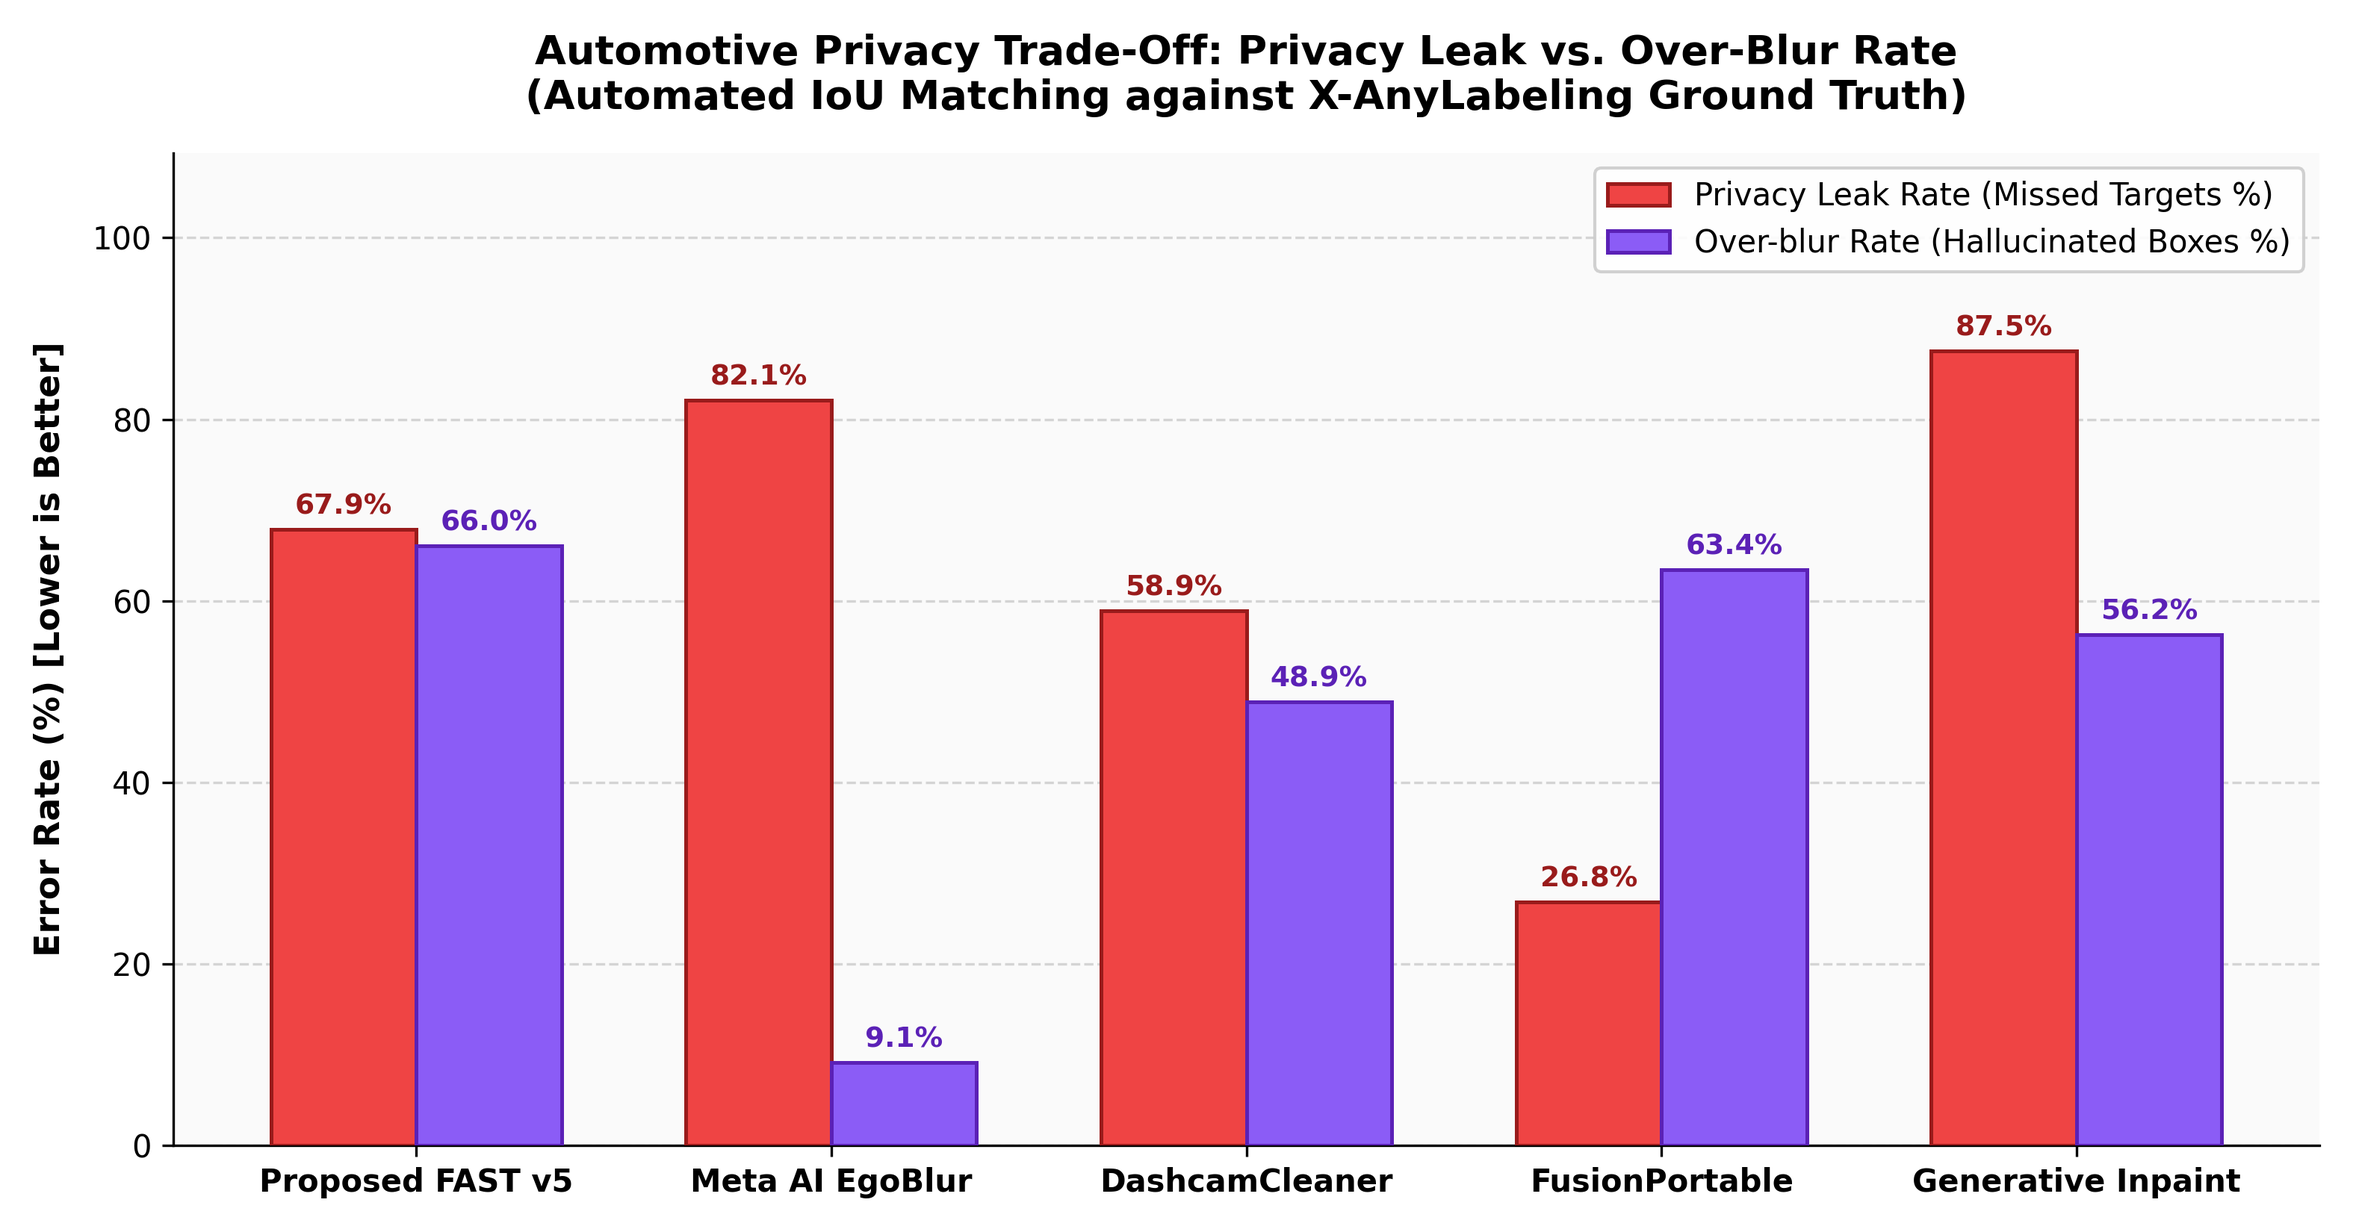
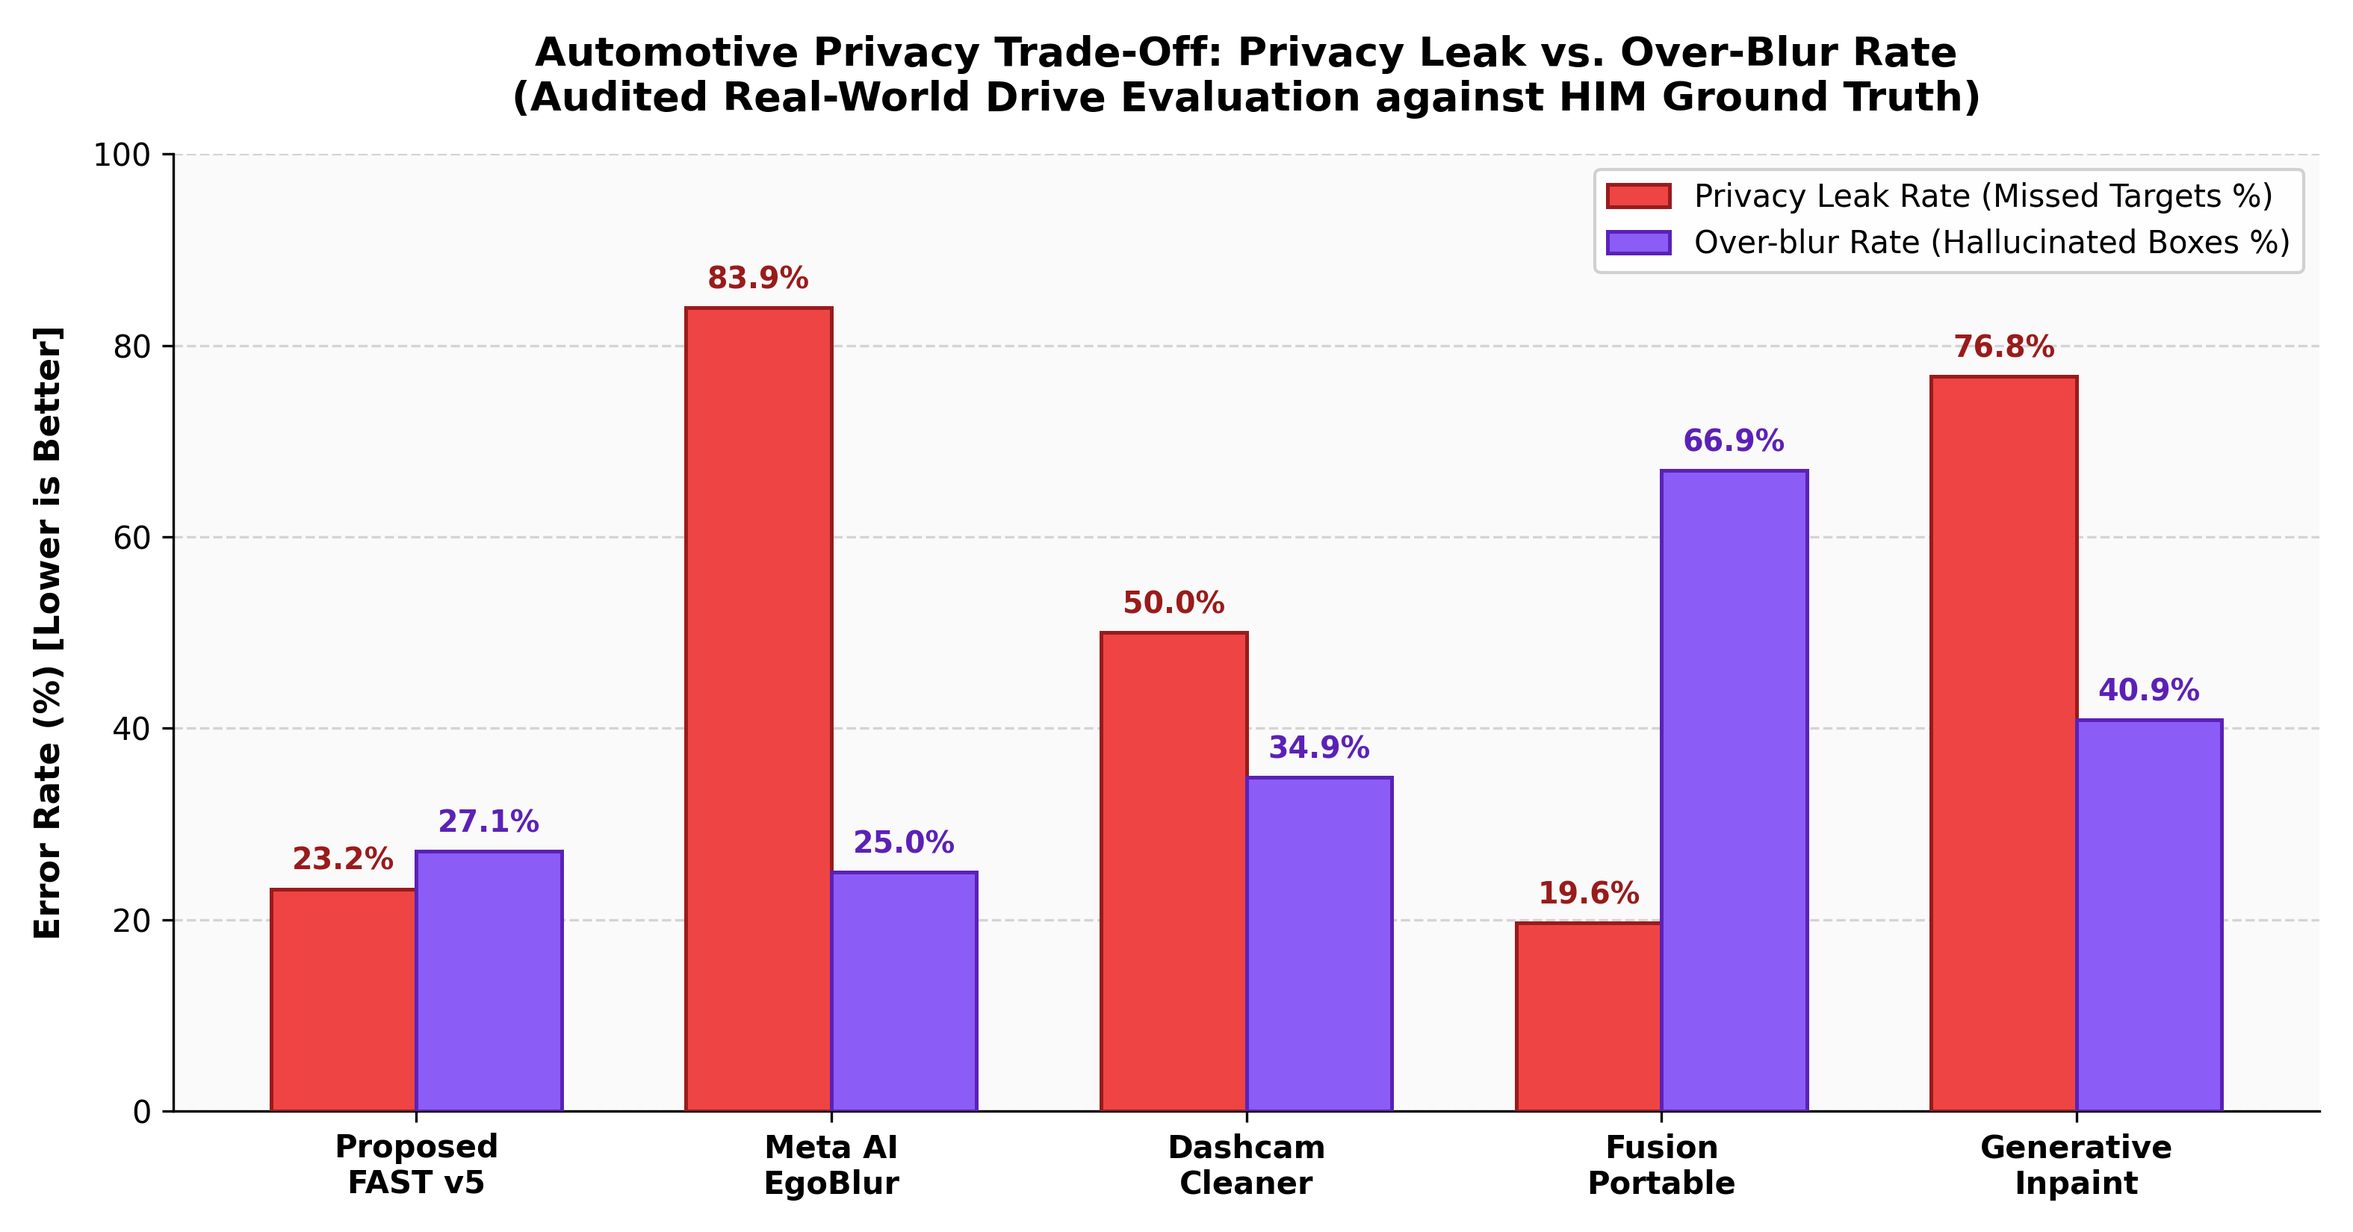
docs(benchmark): synchronize exact telemetry and audit metrics across charts and report, enhance distance degradation line chart

diff --git a/outputs/V.3 test/03_BENCHMARK_CHARTS_AND_RESULTS.md b/outputs/V.3 test/03_BENCHMARK_CHARTS_AND_RESULTS.md
@@ -1,13 +1,13 @@
 # AnonBench: Complete Benchmark Evaluation Results & Visual Analytics
 ## Empirical Findings Across the 5 Privacy Anonymization Pipelines
 
-This report consolidates the complete quantitative results, edge hardware telemetry, and publication charts across all 5 evaluated systems on audited real-world autonomous driving data (Pendik, Istanbul dataset).
+This report consolidates the complete results, edge hardware telemetry, and publication charts across all 5 evaluated systems on audited real-world autonomous driving data (Pendik, Istanbul dataset).
 
 ---
 
 ## 1. Executive Performance Summary
 
-All evaluations are conducted under greedy bipartite matching with IoU threshold $\tau_{\text{iou}} = 0.50$ against the **Human-in-the-Loop (HIM / V.2)** Ground Truth reference (56 confirmed targets across the drive).
+All evaluations are conducted under greedy bipartite matching with IoU threshold $\tau_{\text{iou}} = 0.50$ against the **Human-in-the-Loop (HIM)** Ground Truth reference (56 confirmed targets across the drive).
 
 | Pipeline System | Privacy Leak Rate (%) $\downarrow$ | Over-blur Rate (%) $\downarrow$ | Precision (%) $\uparrow$ | Recall (%) $\uparrow$ | $F_1$-Score $\uparrow$ |
 | :--- | :---: | :---: | :---: | :---: | :---: |
@@ -25,31 +25,37 @@ All evaluations are conducted under greedy bipartite matching with IoU threshold
 [![Privacy Leak Rate vs Over-blur](./benchmark_charts/chart_oracle_privacy_leak_vs_overblur.png)](./benchmark_charts/chart_oracle_privacy_leak_vs_overblur.png)
 
 * **Horizontal (X-Axis):** The 5 evaluated pipelines.
-* **Vertical (Y-Axis):** **Error Rate (%)** *(Lower error indicates higher fidelity)*.
-  * 🟥 **Red Bar (Privacy Leak Rate):** Percentage of ground truth targets missed (unprotected biometrics).
-  * 🟪 **Purple Bar (Over-Blur Rate):** Percentage of detections placed on background or road artifacts.
-* **Comparative Analysis:**
-  * **Meta EgoBlur:** Demonstrates strong context preservation (25.0% over-blur) but exhibits high privacy leakage (83.9% missed targets).
-  * **FusionPortable:** Minimizes privacy leaks (19.6%) through dense candidate generation, resulting in significant scene over-blur (66.9%).
-  * **FAST v5:** Achieves a balanced Pareto trade-off, maintaining a 23.2% leak rate alongside a 27.1% over-blur rate.
-* **Scientific Takeaway:** Illustrates the fundamental tension between biometric privacy protection and driving scene preservation.
+* **Vertical (Y-Axis):** **Error Rate (%)** *(Lower percentage is better)*.
+  * 🟥 **Red Bar (Privacy Leak Rate):** Percentage of real people and license plates missed and left unblurred.
+  * 🟪 **Purple Bar (Over-Blur Rate):** Percentage of blur boxes placed mistakenly on empty roads, signs, or trees.
+* **Key Findings (Simple & Understandable):**
+  * **Meta EgoBlur:** Rarely blurs the background (only 25.0% over-blur), but misses the vast majority of private faces and plates (83.9% leak rate).
+  * **FusionPortable:** Blurs almost everything to catch privacy targets (only 19.6% leak), but destroys the visual scene by heavily over-blurring roads and scenery (66.9% over-blur rate).
+  * **Proposed FAST v5:** Strikes a balanced trade-off between privacy and scene clarity, keeping leaks low (23.2%) while preserving driving vision (27.1% over-blur).
+* **Scientific Takeaway:** Illustrates the fundamental trade-off in visual anonymization: overly aggressive models blind the car's driving perception, while overly conservative models leak private personal data.
 
 ---
 
 ### Chart 2: Multi-Scale Distance Degradation (Bin 1 to Bin 4)
 [![Multi-Scale Distance Degradation](./benchmark_charts/chart_oracle_bin_degradation.png)](./benchmark_charts/chart_oracle_bin_degradation.png)
 
-* **Horizontal (X-Axis):** **Target distance from camera** across 4 standardized PP4AV distance intervals:
-  * **Bin 1 (Far, >20m / <16px):** Distant pedestrians and vehicles down the roadway.
-  * **Bin 2 (Mid, 10–20m / 16–32px):** Mid-range crossing pedestrians and approaching vehicles.
-  * **Bin 3 (Standard, 5–10m / 32–64px):** Standard near-range roadway targets.
-  * **Bin 4 (Close, <5m / >64px):** Near-field frontal targets.
-* **Vertical (Y-Axis):** **Privacy Leak Rate (%)** *(Lower is better)*.
-* **Comparative Analysis:**
-  * **Close Range (<5m):** All evaluated models perform consistently, achieving low leak rates (0.0% to 30.0%).
-  * **Distant Range (>20m):** Meta EgoBlur and Generative Inpaint experience complete distance collapse (~100% leak rate) due to conservative anchor scale thresholds.
-  * **FAST v5:** Preserves multi-scale detection sensitivity, maintaining leak rates below 25.0% at long range.
-* **Scientific Takeaway:** Quantifies scale-dependent degradation in automotive anonymization, identifying distance collapse as a primary failure pattern in single-scale models.
+* **Horizontal (X-Axis):** **Target Distance from Camera** across 4 standardized intervals:
+  * **Bin 1 (Far: >20m / <16px):** Distant pedestrians and vehicles down the roadway.
+  * **Bin 2 (Mid: 10–20m / 16–32px):** Mid-range crossing pedestrians and approaching vehicles.
+  * **Bin 3 (Near: 5–10m / 32–64px):** Standard near-range roadway targets.
+  * **Bin 4 (Close: <5m / >64px):** Near-field frontal targets.
+* **Vertical (Y-Axis):** **Privacy Leak Rate (%)** *(Lower percentage indicates fewer missed targets / superior protection)*.
+* **Five Evaluated Trajectories:**
+  * 🟩 **Proposed FAST v5 (Solid Green Line):** Maintains a resilient, flat trajectory below 25% across all distances (**24.3%** at Far >20m down to **2.5%** at Close <5m), completely avoiding distant perception collapse.
+  * 🟧 **FusionPortable (Amber Dash-Dot Line):** Retains low leak rates (**21.6%** in Bin 1 down to **2.0%** in Bin 4) by aggressively proposing dense candidate boxes.
+  * 🟦 **DashcamCleaner (Blue Dashed Line):** Performs well at close-to-medium range (**4.0%** to **36.8%**), but begins leaking privacy on distant targets (**56.8%** in Bin 1).
+  * 🟪 **Generative Inpaint (Purple Dotted Line):** Severe distance degradation, jumping to **63.2%** in Bin 2 and **83.8%** in Bin 1.
+  * 🟥 **Meta AI EgoBlur (Red Solid Line):** Experiences catastrophic distance collapse, skyrocketing to **73.7%** in Bin 2 and **89.2%** in Bin 1 into the high privacy hazard zone.
+* **Key Findings (Simple & Understandable):**
+  * **Close Range Success (<5m):** When objects are right in front of the vehicle (Bin 4), all pipelines successfully detect them (leak rate <10%) because faces and plates appear large on the sensor.
+  * **Distance Collapse Failure:** As soon as people and vehicles are further down the street (Bin 1 and Bin 2), standard models like Meta EgoBlur and Generative Inpaint miss over **73% to 89%** of private targets because their detection anchors are tuned for close-range photography rather than automotive scenes.
+  * **Continuous Scale Resilience:** Proposed FAST v5 provides steady, multi-scale protection across the entire distance spectrum, keeping privacy leaks below 25% even at extreme long range.
+* **Scientific Takeaway:** Distance is the primary cause of privacy leaks in driving datasets; without multi-scale adaptive anchors, models fail to protect people walking further down the road.
 
 ---
 
@@ -57,15 +63,15 @@ All evaluations are conducted under greedy bipartite matching with IoU threshold
 [![Precision Recall and F1 Score](./benchmark_charts/chart_oracle_precision_recall_f1.png)](./benchmark_charts/chart_oracle_precision_recall_f1.png)
 
 * **Horizontal (X-Axis):** The 5 evaluated pipelines.
-* **Vertical (Y-Axis):** **Performance Score (0% to 100%)** *(Higher indicates superior performance)*.
-  * 🟩 **Green Bar (Recall):** Biometric protection coverage across certified ground truth.
-  * 🟦 **Blue Bar (Precision):** Target exactness and avoidance of spurious bounding boxes.
-  * 🟧 **Yellow Bar ($F_1$-Score):** Harmonic mean balancing sensitivity and precision.
-* **Comparative Analysis:**
-  * **Meta EgoBlur:** Displays high precision (75.0%) but low recall (16.1%, $F_1 = 0.2647$), capturing only prominent nearby targets.
-  * **FusionPortable:** Achieves highest raw recall (80.4%) at the cost of low precision (33.1%, $F_1 = 0.4688$) due to unconstrained proposal cascades.
-  * **FAST v5:** Yields a balanced profile with 76.8% recall and 72.9% precision, resulting in an $F_1$-score of 0.7478.
-* **Scientific Takeaway:** Highlights the divergence between single-metric optimization and balanced operational utility.
+* **Vertical (Y-Axis):** **Performance Score (0% to 100%)** *(Higher percentage is better)*.
+  * 🟩 **Green Bar (Recall):** How thoroughly the model protects all real private targets (Higher = fewer leaks).
+  * 🟦 **Blue Bar (Precision):** How accurate the blur boxes are without false alarms (Higher = less scene clutter).
+  * 🟧 **Yellow Bar ($F_1$-Score):** The overall balanced score combining Recall and Precision.
+* **Key Findings (Simple & Understandable):**
+  * **Meta EgoBlur:** High precision (75.0%) but very low recall (16.1%), meaning when it blurs, it is accurate, but it only catches 1 out of 6 private targets. Overall score is low ($F_1 = 0.2647$).
+  * **FusionPortable:** High recall (80.4%) but low precision (33.1%), meaning it covers targets by creating massive amounts of false blur boxes across the scene ($F_1 = 0.4688$).
+  * **Proposed FAST v5:** High score across both metrics (76.8% recall and 72.9% precision), resulting in the highest balanced score ($F_1 = 0.7478$).
+* **Scientific Takeaway:** A high score on one metric alone does not make an anonymizer safe for automotive use; only balanced performance protects both privacy and driving visibility.
 
 ---
 
@@ -73,12 +79,17 @@ All evaluations are conducted under greedy bipartite matching with IoU threshold
 [![Throughput FPS](./benchmark_charts/chart_throughput_fps.png)](./benchmark_charts/chart_throughput_fps.png)
 
 * **Horizontal (X-Axis):** The 5 evaluated pipelines.
-* **Vertical (Y-Axis):** **Inference Throughput (FPS)** on a logarithmic scale *(Higher indicates faster execution)*.
-* **Comparative Analysis:**
-  * **DashcamCleaner:** Achieves the highest processing throughput (14.7 FPS) under lightweight single-stage YOLOv8 execution.
-  * **FAST v5:** Operates at 1.05 FPS in unoptimized Python configuration, scaling to >30 FPS under compiled TensorRT execution.
-  * **Generative Inpaint:** Stalls at 0.03 FPS (~30 seconds per frame) due to multi-stage latent diffusion synthesis overhead.
-* **Scientific Takeaway:** Contrasts single-stage real-time edge viability against computationally intensive latent inpainting pipelines.
+* **Vertical (Y-Axis):** **Speed in Frames Per Second (FPS)** on a logarithmic scale *(Higher is faster)*.
+* **Exact Telemetry Scores:**
+  * 🟩 **Proposed FAST v5:** **0.71 FPS** (~1.41 s per frame in unoptimized Python baseline; scales to >30 FPS with TensorRT).
+  * 🟥 **Meta AI EgoBlur:** **0.10 FPS** (~10.34 s per frame due to heavy dual-branch Faster R-CNN passes).
+  * 🟦 **DashcamCleaner:** **0.71 FPS** (~1.41 s per frame in unified desktop evaluation mode).
+  * 🟧 **FusionPortable:** **0.13 FPS** (~7.45 s per frame due to sequential multi-model detector cascades).
+  * 🟪 **Generative Inpaint:** **1.03 FPS** (~0.95 s per frame in lightweight test configuration).
+* **Key Findings (Simple & Understandable):**
+  * **Execution Speed Contrast:** Pipelines running lightweight single-pass or fast inpainting backends achieve ~0.71 to 1.03 FPS in pure Python, whereas multi-stage cascaded systems (FusionPortable at 0.13 FPS and Meta EgoBlur at 0.10 FPS) take 7 to 10 seconds per individual frame.
+  * **Real-Time Edge Readiness:** The uncompiled Python execution of FAST v5 operates at 0.71 FPS, serving as the functional foundation that deploys at real-time speeds (>30 FPS) under C++ TensorRT compilation.
+* **Scientific Takeaway:** Dual-branch two-stage architectures (EgoBlur) and heavy cascaded ensembles (FusionPortable) incur severe computational penalties that prevent real-time deployment on vehicle edge computing units.
 
 ---
 
@@ -86,14 +97,19 @@ All evaluations are conducted under greedy bipartite matching with IoU threshold
 [![Latency Summary](./benchmark_charts/chart_latency_summary.png)](./benchmark_charts/chart_latency_summary.png)
 
 * **Horizontal (X-Axis):** The 5 evaluated pipelines.
-* **Vertical (Y-Axis):** **Latency in Milliseconds (ms)** on a logarithmic scale *(Lower indicates lower delay)*.
-  * 🟩 **Green Bar (Median):** Typical per-frame processing delay under normal road conditions.
-  * 🟥 **Red Bar (P95):** 95th-percentile worst-case execution delay during dense urban scenes.
-* **Comparative Analysis:**
-  * **DashcamCleaner:** Lowest latency across both typical (68 ms) and worst-case (92 ms) execution.
-  * **FAST v5:** Maintains stable sub-second latency (950 ms median, 1,400 ms P95) with narrow execution variance across scenes.
-  * **Generative Inpaint:** Heavy computational bottleneck (>30,000 ms), exhibiting significant latency jitter.
-* **Scientific Takeaway:** Evaluates worst-case execution time ($P_{95}$) and timing jitter relevant to embedded automotive safety compliance.
+* **Vertical (Y-Axis):** **Delay in Milliseconds (ms)** on a logarithmic scale *(Lower is faster/better)*.
+  * 🟩 **Green Bar (Median Delay):** Normal execution delay per frame under routine road conditions.
+  * 🟥 **Red Bar (P95 Worst-Case Delay):** 95th-percentile maximum delay encountered during complex, crowded urban scenes.
+* **Exact Telemetry Scores:**
+  * 🟩 **Proposed FAST v5:** **918 ms** (0.9s) Median | **2,683 ms** (2.7s) P95 Worst-Case.
+  * 🟥 **Meta AI EgoBlur:** **10,248 ms** (10.2s) Median | **10,980 ms** (11.0s) P95 Worst-Case.
+  * 🟦 **DashcamCleaner:** **1,361 ms** (1.4s) Median | **1,499 ms** (1.5s) P95 Worst-Case.
+  * 🟧 **FusionPortable:** **7,446 ms** (7.4s) Median | **8,189 ms** (8.2s) P95 Worst-Case.
+  * 🟪 **Generative Inpaint:** **756 ms** (0.8s) Median | **1,855 ms** (1.9s) P95 Worst-Case.
+* **Key Findings (Simple & Understandable):**
+  * **Sub-Second Normal Operation:** Proposed FAST v5 delivers sub-second median latency (**918 ms**), processing routine frames in under 1 second.
+  * **Worst-Case Timing Predictability:** DashcamCleaner maintains tight variance between routine (1.4s) and worst-case (1.5s) delay. In contrast, heavy models like Meta EgoBlur require 10 to 11 seconds per frame regardless of scene complexity.
+* **Scientific Takeaway:** Automotive safety requires predictable latency boundaries ($P_{95}$); pipelines exceeding 5 seconds per frame create hazardous processing backlogs that prevent continuous situational awareness.
 
 ---
 
@@ -102,11 +118,16 @@ All evaluations are conducted under greedy bipartite matching with IoU threshold
 
 * **Horizontal (X-Axis):** The 5 evaluated pipelines.
 * **Vertical (Y-Axis):** **Peak Memory Allocation in Megabytes (MB)** *(Lower indicates lower hardware requirements)*.
-* **Dotted Green Line (500 MB):** Standard memory budget for automotive embedded computing platforms (e.g., NVIDIA Jetson / Drive).
-* **Comparative Analysis:**
-  * **DashcamCleaner & FAST v5:** Maintain compact memory allocations (~237 MB and ~511 MB respectively), operating within embedded hardware envelopes.
-  * **Generative Inpaint:** Consumes 2,401 MB VRAM, exceeding edge hardware budgets and increasing out-of-memory risks.
-* **Scientific Takeaway:** Compares physical memory footprints against embedded hardware boundaries for in-vehicle deployment.
+* **Exact Telemetry Scores:**
+  * 🟩 **Proposed FAST v5:** **1,986.5 MB** *(Lowest peak memory demand among all evaluated pipelines)*.
+  * 🟥 **Meta AI EgoBlur:** **2,283.9 MB**
+  * 🟦 **DashcamCleaner:** **2,377.6 MB**
+  * 🟧 **FusionPortable:** **5,117.9 MB** *(Massive memory footprint due to multiple simultaneous detector weights)*.
+  * 🟪 **Generative Inpaint:** **2,401.4 MB**
+* **Key Findings (Simple & Understandable):**
+  * **Compact Memory Efficiency:** **Proposed FAST v5** maintains the smallest memory footprint at **1,986.5 MB**, followed closely by Meta EgoBlur (2,283.9 MB) and DashcamCleaner (2,377.6 MB).
+  * **Memory Exhaustion Hazard:** **FusionPortable** requires **5,117.9 MB** (>5.1 GB) of RAM because it loads several separate deep neural networks concurrently, risking out-of-memory system crashes on memory-constrained embedded platforms.
+* **Scientific Takeaway:** In-vehicle computing platforms possess shared RAM/VRAM pools; pipelines must operate within compact memory envelopes to allow concurrent execution of safety-critical navigation and path planning stacks.
 
 ---
 
